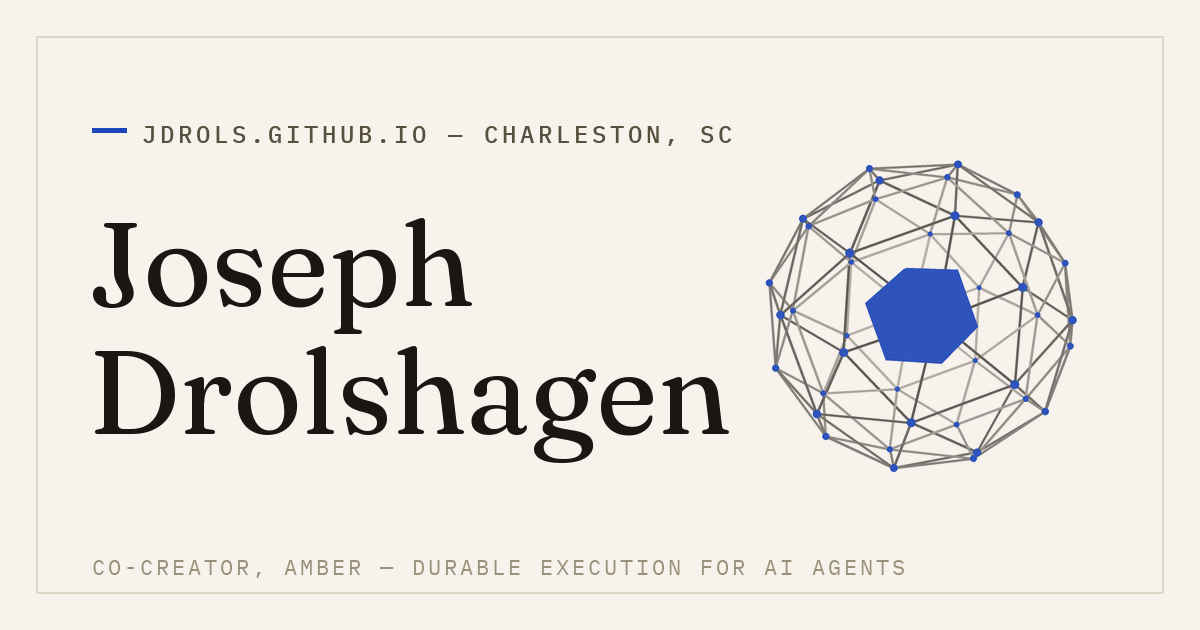
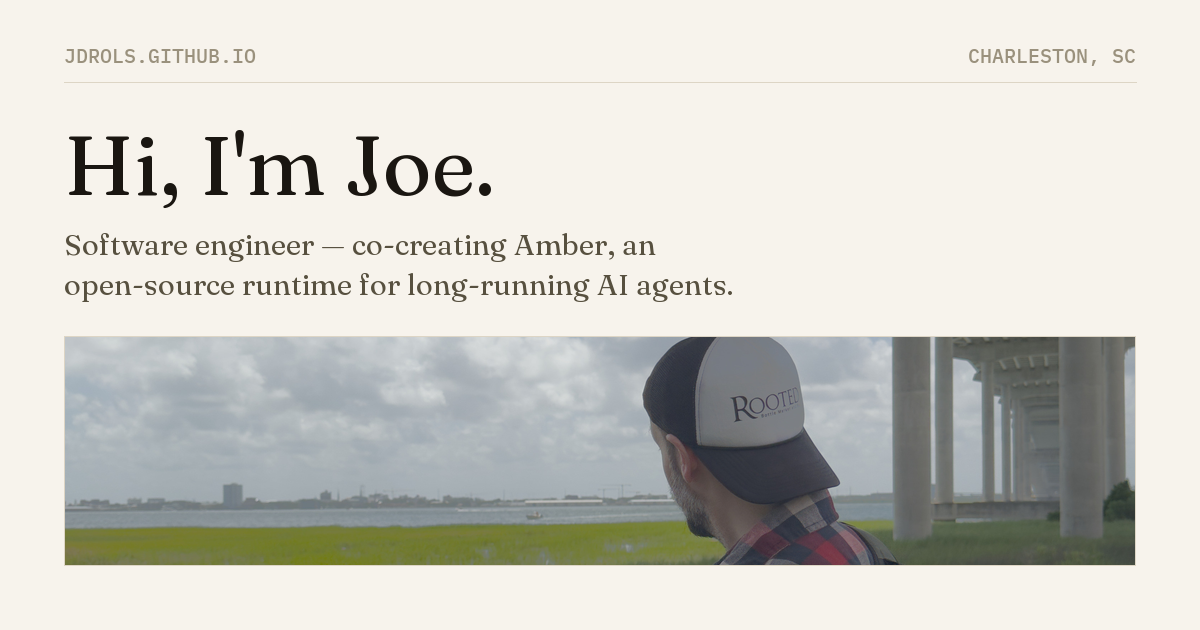
Add photo band footer, grid restructure, dedupe topbar links

diff --git a/index.html b/index.html
@@ -63,7 +63,7 @@
     text-transform: uppercase;
   }
   .topbar .ident { color: var(--ink); text-decoration: none; font-weight: 500; }
-  .topbar nav { display: flex; gap: 1.8rem; }
+  .topbar .locale { color: var(--ink-faint); }
   .topbar nav a {
     color: var(--ink-soft);
     text-decoration: none;
@@ -85,37 +85,45 @@
     justify-content: center;
   }
 
-  /* ---------- hero ---------- */
-  .hero {
+  /* ---------- hero grid ---------- */
+  .hero-grid {
     display: grid;
     grid-template-columns: minmax(0, 1.25fr) minmax(0, 1fr);
-    gap: 3rem;
-    align-items: center;
-    padding: 4rem 0;
+    grid-template-areas:
+      "copy  figure"
+      "links figure"
+      "band  band";
+    column-gap: 3rem;
+    row-gap: 1.6rem;
+    align-items: end;
+    padding: 4rem 0 3rem;
   }
-  .hero h1 {
+  .cell-copy { grid-area: copy; align-self: end; transform: translateY(-1.2rem); }
+  .cell-links { grid-area: links; align-self: end; }
+  .cell-figure { grid-area: figure; align-self: end; }
+  .band { grid-area: band; margin: 1.4rem 0 0; border: 1px solid var(--rule); }
+  .band img { display: block; width: 100%; height: auto; }
+  .hero-grid h1 {
     font-size: clamp(3rem, 6.4vw, 5.2rem);
     font-weight: 400;
     line-height: 1.02;
     letter-spacing: -0.02em;
     margin-bottom: 1.4rem;
   }
-  .hero .lede {
+  .hero-grid .lede {
     font-size: 1.18rem;
     line-height: 1.65;
     color: var(--ink-soft);
     max-width: 34rem;
-    margin-bottom: 2rem;
   }
-  .hero .lede strong { color: var(--ink); font-weight: 500; }
-  .hero .lede a {
+  .hero-grid .lede strong { color: var(--ink); font-weight: 500; }
+  .hero-grid .lede a {
     color: var(--ink);
     text-decoration: none;
     border-bottom: 1px solid var(--rule);
     transition: color 0.15s, border-color 0.15s;
   }
-  .hero .lede a:hover { color: var(--accent); border-color: var(--accent); }
-
+  .hero-grid .lede a:hover { color: var(--accent); border-color: var(--accent); }
   .links {
     display: flex;
     flex-wrap: wrap;
@@ -151,9 +159,10 @@
   .figure .stage canvas { display: block; width: 100%; height: 100%; }
   .figure .fallback {
     position: absolute; inset: 0;
-    display: flex; align-items: center; justify-content: center;
+    display: flex; align-items: end; justify-content: center;
   }
   .figure .fallback svg { width: 62%; height: 62%; }
+  
   /* ---------- colophon ---------- */
   .colophon {
     display: flex;
@@ -174,33 +183,32 @@
 
   /* ---------- responsive ---------- */
   @media (max-width: 900px) {
-    .hero { grid-template-columns: 1fr; padding: 3.2rem 0 3rem; gap: 2.4rem; }
-    .figure { max-width: 26rem; }
+    .hero-grid {
+      grid-template-columns: 1fr;
+      grid-template-areas: "copy" "links" "figure" "band";
+      row-gap: 2.2rem;
+      padding: 3.2rem 0 3rem;
+    }
+    .cell-copy { transform: none; }
+    .cell-figure { justify-self: center; width: min(100%, 19rem); }
     .topbar { padding: 1rem 1.4rem; }
-    .topbar nav { gap: 1.1rem; }
     .shell { padding: 0 1.4rem; }
     .colophon { padding: 1.4rem; }
   }
-  @media (max-width: 620px) {
-    .topbar nav a:nth-child(2) { display: none; }
-  }
+
 </style>
 </head>
 <body>
 
 <header class="topbar">
   <a class="ident" href="/">jdrols.github.io</a>
-  <nav>
-    <a href="mailto:jdrols@gmail.com">Email</a>
-    <a href="https://github.com/jdrols" target="_blank" rel="noopener">GitHub</a>
-    <a href="Joseph-Drolshagen-Resume.pdf" target="_blank" rel="noopener">Resume</a>
-  </nav>
+  <span class="locale">Charleston, SC</span>
 </header>
 
 <main class="shell">
 
-  <div class="hero">
-    <div>
+  <div class="hero-grid">
+    <div class="cell-copy">
       <h1>Hi,<br />I'm Joe.</h1>
       <p class="lede">
         I'm a software engineer in Charleston. Right now I'm co-creating
@@ -208,6 +216,9 @@
         long-running AI agents. If you want to see more of my work, it's in
         the links below. Or just email me; I'm always happy to chat!
       </p>
+    </div>
+
+    <div class="cell-links">
       <div class="links">
         <a href="mailto:jdrols@gmail.com">jdrols@gmail.com</a>
         <a href="https://github.com/jdrols" target="_blank" rel="noopener">github.com/jdrols <span class="arr">↗</span></a>
@@ -216,7 +227,7 @@
       </div>
     </div>
 
-    <figure class="figure">
+<figure class="figure cell-figure">
       <div class="stage" id="toy-stage" aria-label="Interactive wireframe icosahedron, drag to rotate">
         <div class="fallback" id="toy-fallback">
           <svg viewBox="0 0 200 200" fill="none" stroke="#1a1611" stroke-width="1">
@@ -232,6 +243,14 @@
         </div>
       </div>
     </figure>
+
+  <figure class="band">
+    <img src="photo-band-1600.jpg"
+         srcset="photo-band-800.jpg 800w, photo-band-1600.jpg 1600w, photo-band-2560.jpg 2560w"
+         sizes="(max-width: 1160px) calc(100vw - 5rem), 1060px"
+         alt="Joe looking out over the marsh and river beneath the Ravenel Bridge, Charleston"
+         loading="lazy" />
+  </figure>
   </div>
 
 </main>
